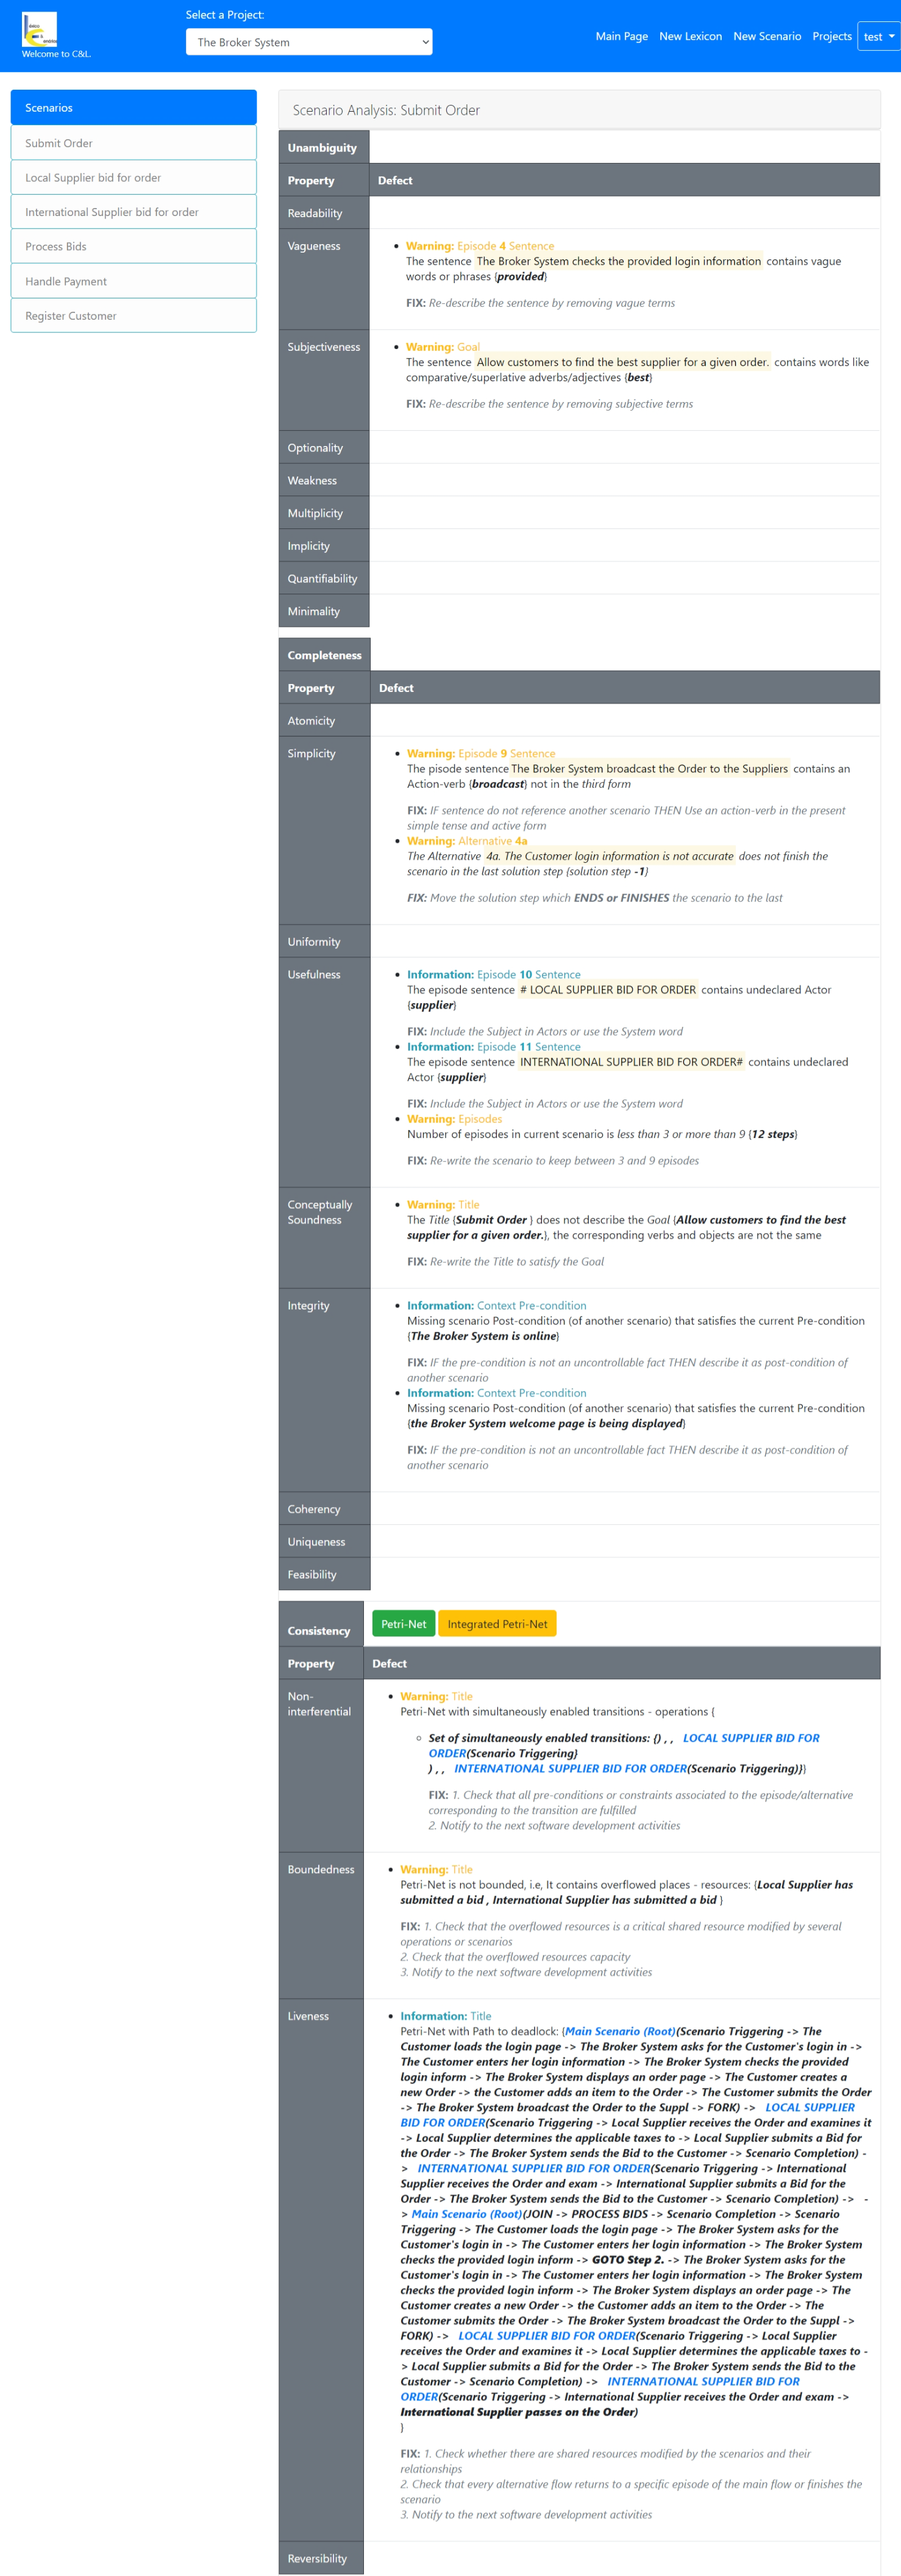
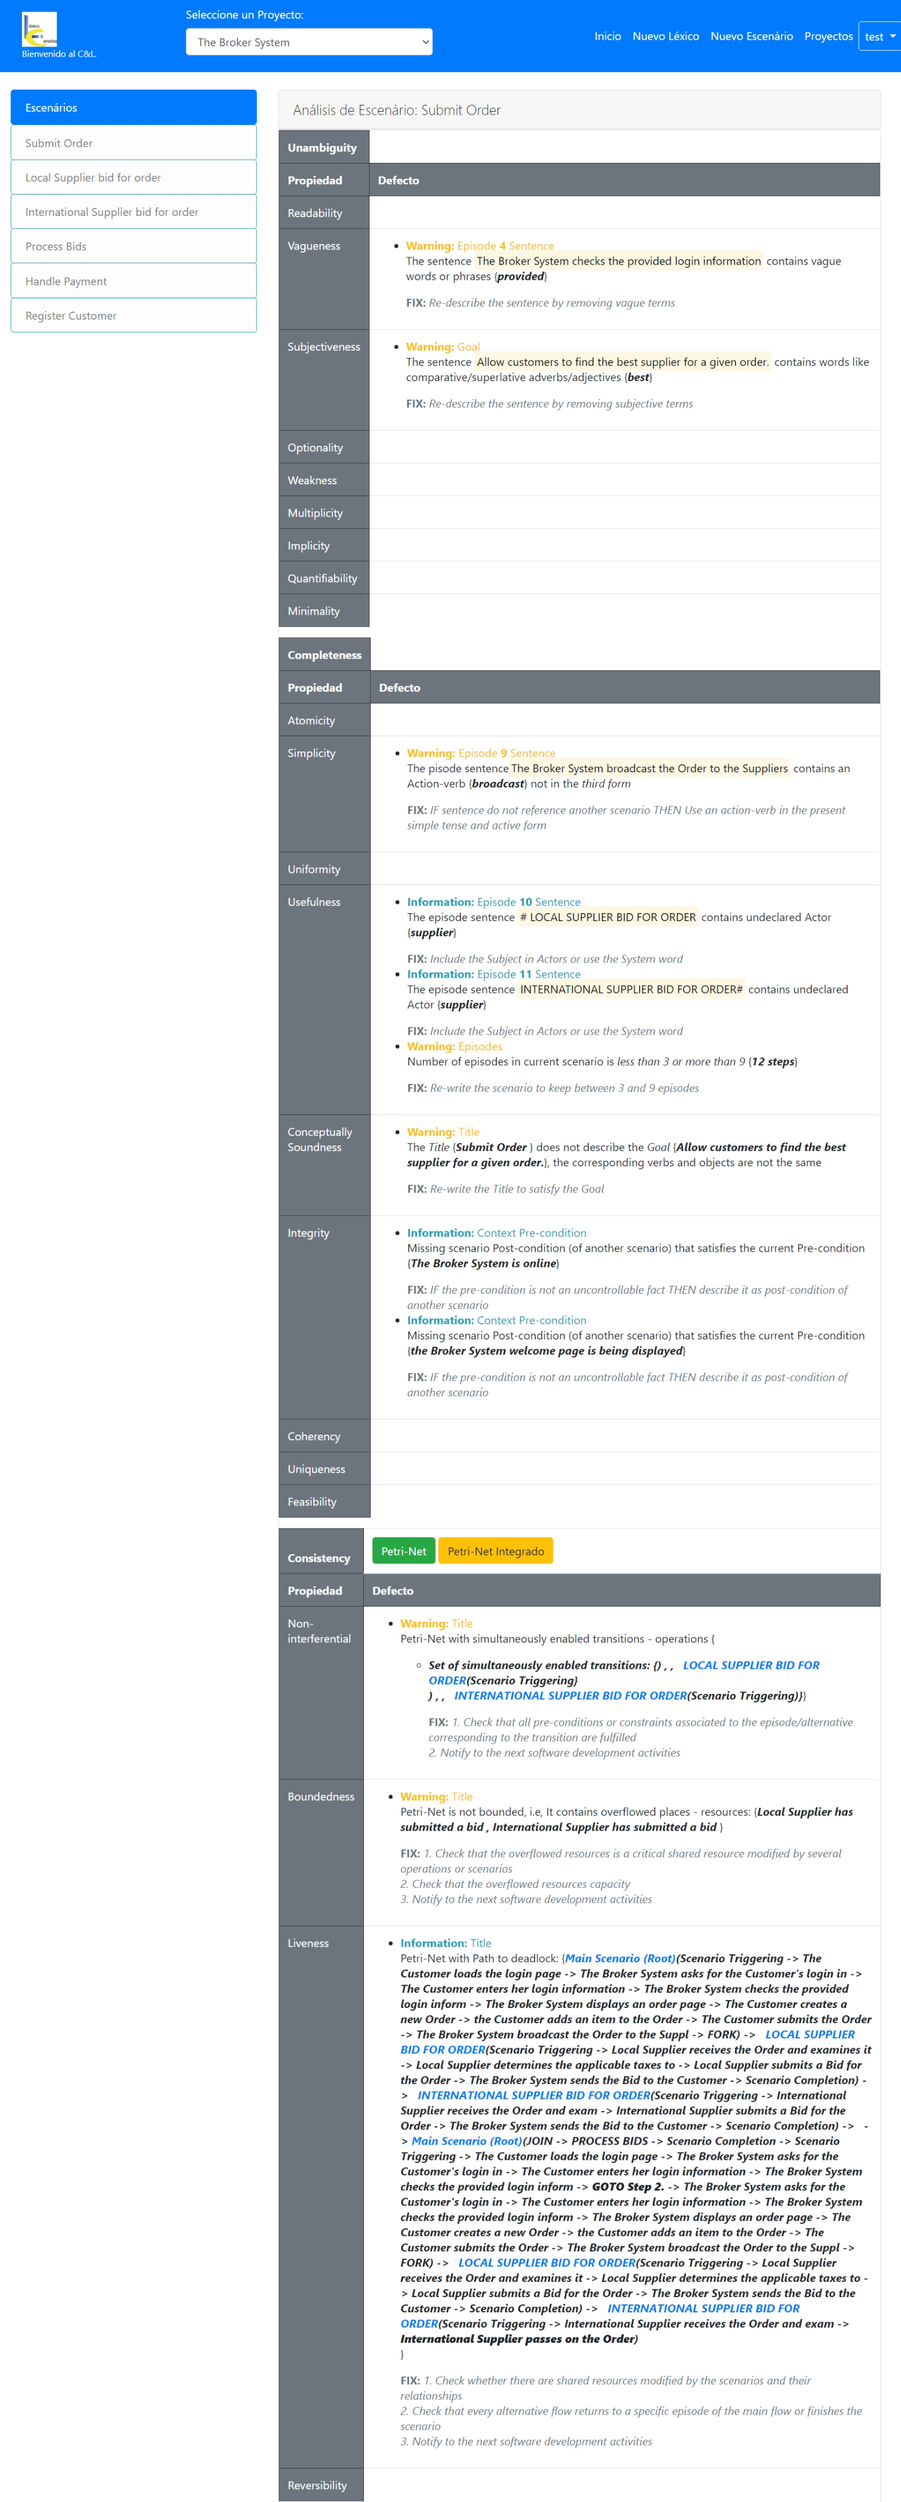
Update figures

diff --git a/src/main/java/pe/edu/unsa/daisi/lis/cel/service/analysis/CompletenessAnalysisServiceImpl.java b/src/main/java/pe/edu/unsa/daisi/lis/cel/service/analysis/CompletenessAnalysisServiceImpl.java
@@ -556,34 +556,38 @@ public class CompletenessAnalysisServiceImpl implements ICompletenessAnalysisSer
 					defects.add(defect)	;								
 				}
 								
-				
-				if(!alternative.getSolution().isEmpty() && alternative.getSolutionStepWithGoToEpisode() > 0) {
-					//Indicator: The Alternative does not return to the main flow in the last solution step
-					if(!alternative.getSolutionStepWithGoToEpisode().equals(alternative.getSolution().size())) {
-						Defect defect = NewDefect.buildDefect(structuredScenario.getId(), ScenarioElement.ALTERNATIVE_ID.getScenarioElement(), alternativeId, 
-								QualityPropertyEnum.SIMPLICITY.getQualityProperty(), 
-								DefectIndicatorEnum.SIMPLICITY_ALTERNATIVE_GOTO_NOT_IN_LAST_ALTERNATE_SOLUTION_STEP_INDICATOR.getDefectIndicator(), alternative.getRawAlternative(), alternative.getSolutionStepWithGoToEpisode().toString(), 
-								DefectCategoryEnum.WARNING.getDefectCategory(), DefectIndicatorEnum.SIMPLICITY_ALTERNATIVE_GOTO_NOT_IN_LAST_ALTERNATE_SOLUTION_STEP_INDICATOR.getFixRecomendation());
-						
-						defects.add(defect)	;	
+
+				if(!alternative.getSolution().isEmpty()) {
+					if(alternative.getSolutionStepWithGoToEpisode() > 0) {
+						//Indicator: The Alternative does not return to the main flow in the last solution step
+						if(!alternative.getSolutionStepWithGoToEpisode().equals(alternative.getSolution().size())) {
+							Defect defect = NewDefect.buildDefect(structuredScenario.getId(), ScenarioElement.ALTERNATIVE_ID.getScenarioElement(), alternativeId, 
+									QualityPropertyEnum.SIMPLICITY.getQualityProperty(), 
+									DefectIndicatorEnum.SIMPLICITY_ALTERNATIVE_GOTO_NOT_IN_LAST_ALTERNATE_SOLUTION_STEP_INDICATOR.getDefectIndicator(), alternative.getRawAlternative(), alternative.getSolutionStepWithGoToEpisode().toString(), 
+									DefectCategoryEnum.WARNING.getDefectCategory(), DefectIndicatorEnum.SIMPLICITY_ALTERNATIVE_GOTO_NOT_IN_LAST_ALTERNATE_SOLUTION_STEP_INDICATOR.getFixRecomendation());
+
+							defects.add(defect)	;	
+						}
+						//Indicator: The Alternative returns to the main flow using an invalid episode Id/Step
+						if(alternative.getGoToEpisode() == null) {
+							Defect defect = NewDefect.buildDefect(structuredScenario.getId(), ScenarioElement.ALTERNATIVE_ID.getScenarioElement(), alternativeId, 
+									QualityPropertyEnum.SIMPLICITY.getQualityProperty(), 
+									DefectIndicatorEnum.SIMPLICITY_ALTERNATIVE_GOTO_WITHOUT_EPISODE_IN_ALTERNATE_SOLUTION_STEP_INDICATOR.getDefectIndicator(), alternative.getRawAlternative(), alternative.getSolutionStepWithGoToEpisode().toString(), 
+									DefectCategoryEnum.WARNING.getDefectCategory(), DefectIndicatorEnum.SIMPLICITY_ALTERNATIVE_GOTO_WITHOUT_EPISODE_IN_ALTERNATE_SOLUTION_STEP_INDICATOR.getFixRecomendation());
+
+							defects.add(defect)	;	
+						}
 					}
-					//Indicator: The Alternative returns to the main flow using an invalid episode Id/Step
-					if(alternative.getGoToEpisode() == null) {
-						Defect defect = NewDefect.buildDefect(structuredScenario.getId(), ScenarioElement.ALTERNATIVE_ID.getScenarioElement(), alternativeId, 
-								QualityPropertyEnum.SIMPLICITY.getQualityProperty(), 
-								DefectIndicatorEnum.SIMPLICITY_ALTERNATIVE_GOTO_WITHOUT_EPISODE_IN_ALTERNATE_SOLUTION_STEP_INDICATOR.getDefectIndicator(), alternative.getRawAlternative(), alternative.getSolutionStepWithGoToEpisode().toString(), 
-								DefectCategoryEnum.WARNING.getDefectCategory(), DefectIndicatorEnum.SIMPLICITY_ALTERNATIVE_GOTO_WITHOUT_EPISODE_IN_ALTERNATE_SOLUTION_STEP_INDICATOR.getFixRecomendation());
-												
-						defects.add(defect)	;	
-					}
-					//Indicator: The Alternative does not finish the scenario in the last solution step
-					if(!alternative.getSolutionStepWithEndScenario().equals(alternative.getSolution().size())) {
-						Defect defect = NewDefect.buildDefect(structuredScenario.getId(), ScenarioElement.ALTERNATIVE_ID.getScenarioElement(), alternativeId, 
-								QualityPropertyEnum.SIMPLICITY.getQualityProperty(), 
-								DefectIndicatorEnum.SIMPLICITY_ALTERNATIVE_END_NOT_IN_LAST_ALTERNATE_SOLUTION_STEP_INDICATOR.getDefectIndicator(), alternative.getRawAlternative(), alternative.getSolutionStepWithEndScenario().toString(), 
-								DefectCategoryEnum.WARNING.getDefectCategory(), DefectIndicatorEnum.SIMPLICITY_ALTERNATIVE_END_NOT_IN_LAST_ALTERNATE_SOLUTION_STEP_INDICATOR.getFixRecomendation());
-						
-						defects.add(defect)	;	
+					if(alternative.getSolutionStepWithEndScenario() > 0) {
+						//Indicator: The Alternative does not finish the scenario in the last solution step
+						if(!alternative.getSolutionStepWithEndScenario().equals(alternative.getSolution().size())) {
+							Defect defect = NewDefect.buildDefect(structuredScenario.getId(), ScenarioElement.ALTERNATIVE_ID.getScenarioElement(), alternativeId, 
+									QualityPropertyEnum.SIMPLICITY.getQualityProperty(), 
+									DefectIndicatorEnum.SIMPLICITY_ALTERNATIVE_END_NOT_IN_LAST_ALTERNATE_SOLUTION_STEP_INDICATOR.getDefectIndicator(), alternative.getRawAlternative(), alternative.getSolutionStepWithEndScenario().toString(), 
+									DefectCategoryEnum.WARNING.getDefectCategory(), DefectIndicatorEnum.SIMPLICITY_ALTERNATIVE_END_NOT_IN_LAST_ALTERNATE_SOLUTION_STEP_INDICATOR.getFixRecomendation());
+
+							defects.add(defect)	;	
+						}
 					}
 				}
 				
